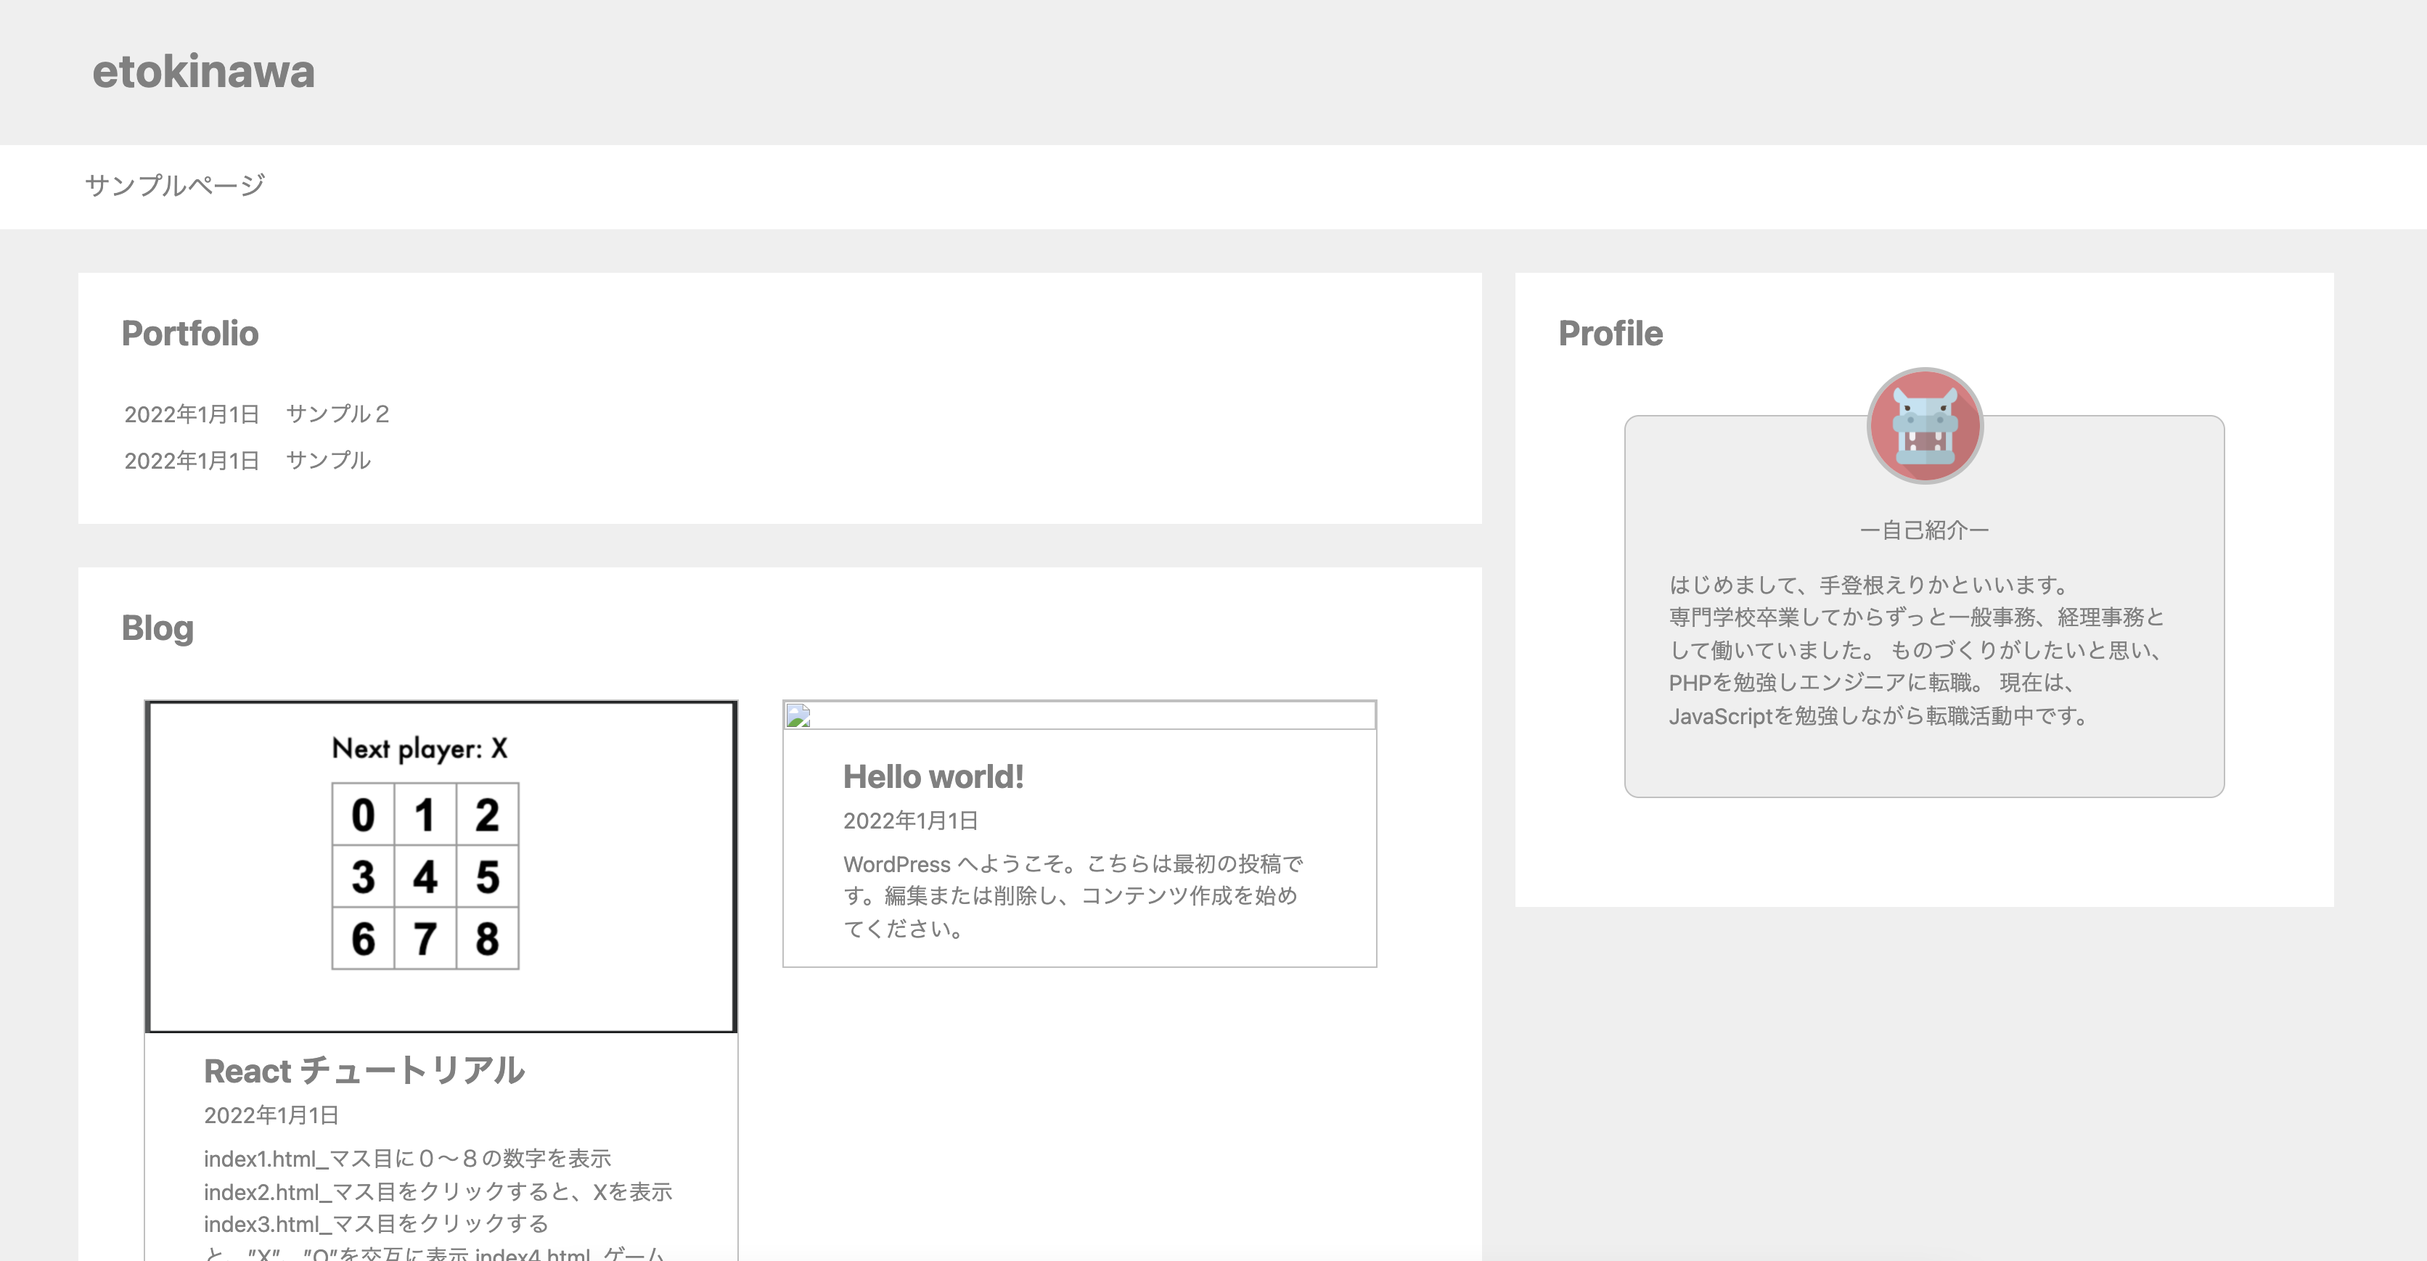
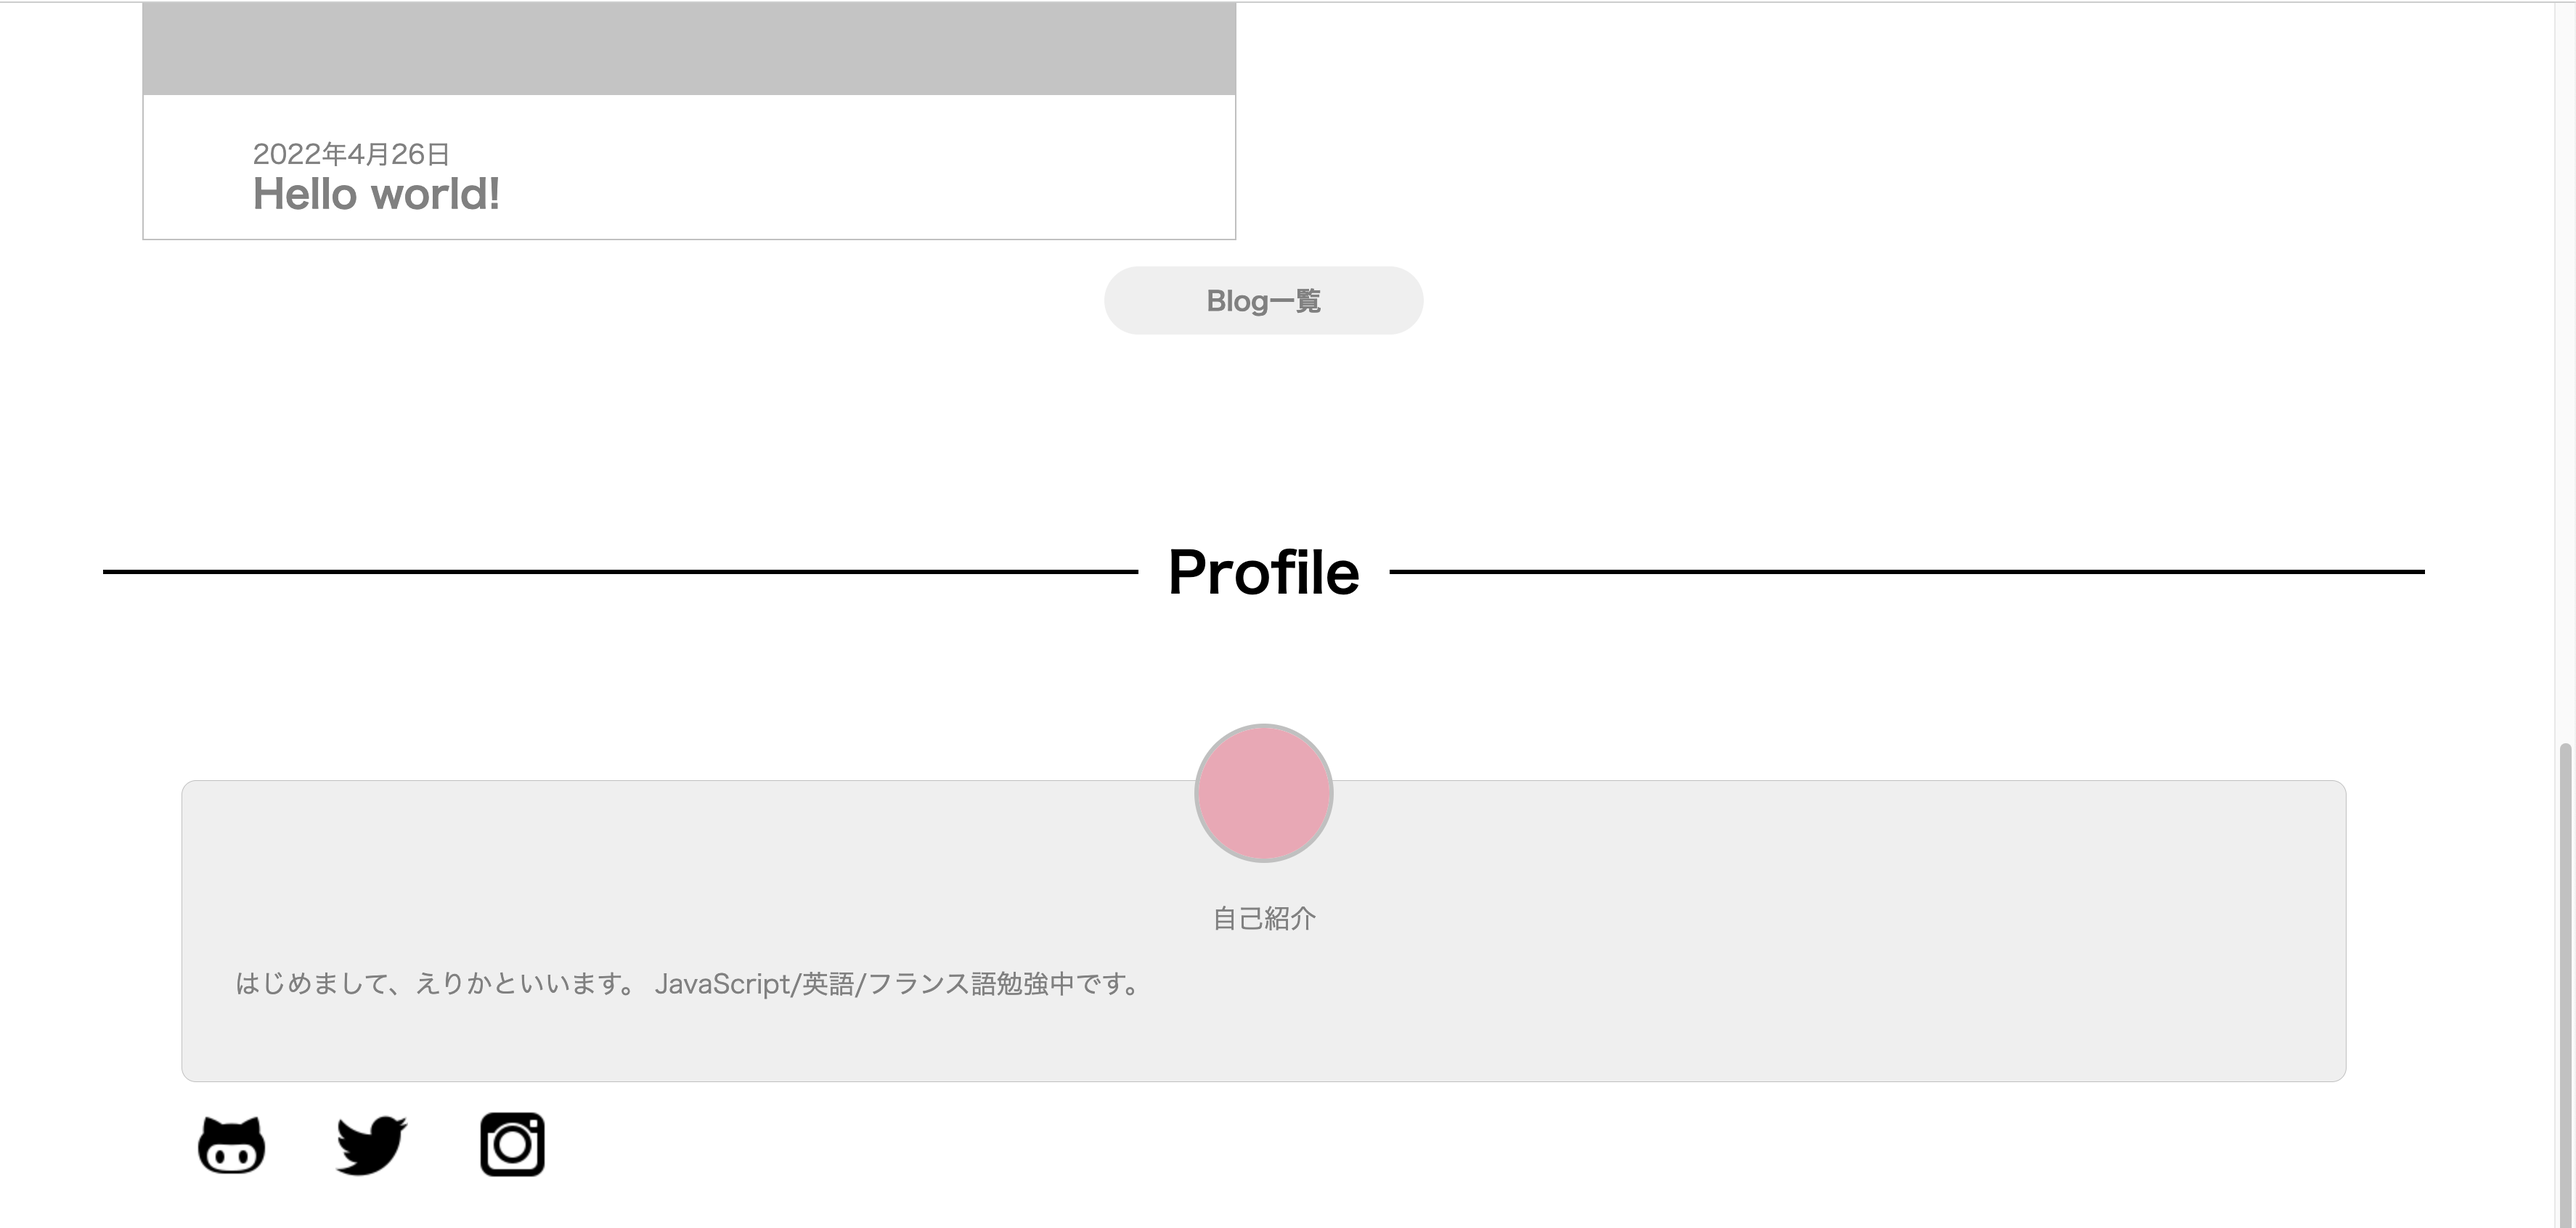
archive 位置修正

diff --git a/style.css b/style.css
@@ -7,7 +7,7 @@ Theme Name: Erikablog
 body {
     width: 100%;
     font-size: 18px;
-    color: gray;
+    color: black;
     margin: 0;
     font-family: sans-serif;
     line-height: 1.5em;
@@ -151,7 +151,6 @@ front-page
 }
 .card-image img{
     width: 100%;
-    height: 50%;
     display: block;
     text-align: center;
 }
@@ -238,13 +237,21 @@ single
 .post-thumbnail-image {
     text-align: center;
     padding-bottom: 1em;
+    height: 500px;
+    background-repeat: no-repeat;
+    background-position: center;
+    background-size: cover;
 }
 .post-contents{
     margin: 0 auto;
     width: 60%;
 }
-.single img {
-    width: 100%;
+.post-title {
+    text-align: center;
+    padding: 1.5em;
+}
+.post-text {
+    padding: 2em;
 }
 .single .post-date-category {
     font-size: 16px;
@@ -275,7 +282,7 @@ footer {
     
     /* header */
     .header-title-area {
-        padding-left: 2em;
+        padding: 1em 0 1em 2em;
     }
     .logo {
         padding-left: 0; 
@@ -304,13 +311,21 @@ footer {
     .text-title:after {
         margin: 0;
     }
+    .card-image img{
+        height: 50%;
+    }
     .card-list {
         width: 100%;
 		margin-left: 0.45em;
     }
-    .card-title {
-        margin: 0;
+	.card-title {
+        padding: 2em 0;
     }
+    .blog .card-title {
+        padding-left: 0em;
+        width: 100%;
+    }
+
     .data {
         font-size: 12px;
     }
@@ -329,12 +344,40 @@ footer {
         padding: 0;
     }
     .post-image {
-        display: flex;
+        width: 100%;
+        height: 50%;
+        display: block;
+        text-align: center;
     }
+	.archive .card {
+        display: block;
+        padding-bottom: 0;
+	}
 
     /* single */
     .post-contents {
-        width: 90%; 
+        width: 100%;
+    }
+    .post-thumbnail-image {
+        text-align: center;
+        padding-bottom: 1em;
+        height: 200px;
+        background-repeat: no-repeat;
+        background-position: center;
+        background-size: cover;
+    }
+    .post-title {
+        text-align: center;
+        padding: 0;
+        line-height: 1.2em;
+    }
+    .post-text {
+        padding: 0 1em;
+    }
+
+    .archive .card-contents {
+        margin: 0 auto;
+        width: 95%;
     }
     .single {
         margin: 0 auto;
@@ -344,15 +387,19 @@ footer {
     .contents .profile {
         margin: 1em;
     }
-    
-    .post-thumbnail-image img {
-        width: 100%;
-        height: 100%;
+    .pagination {
+        padding: 2em;
     }
-
-
 
     .icon li {
         padding: 0 0.5em;
+    }
+
+    /* footer */
+    footer {
+        padding: 0.1em;
+    }
+    .copyright {
+        font-size: 14px;
     }
 }

diff --git a/archive.php b/archive.php
@@ -1,33 +1,35 @@
 <?php get_header(); ?>
 
-<section class="archive blog">
+<section class="archive portfolio">
     <div class="card-contents">
-        <h3 class="text-title">Blog</h3>
+        <h2 class="text-title">Blog</h2>
+        <p class="text-info"></p>
         <div class="card-list-area">
-            <?php if (have_posts()): ?>
-            <?php while (have_posts()): the_post(); ?>
-                <div class="card">
-                    <div class="post-image">
-                        <a href="<?php the_permalink(); ?>">
-                        <?php if (has_post_thumbnail()): ?>
-                            <img class="" src="<?php the_post_thumbnail(array(250, 250), array( 'class' => 'thumbimg')); ?>
-                        <?php else: ?>
-                            <img class="" src="<?php bloginfo('template_url'); ?>/images/nophoto.jpg">
-                        <?php endif; ?>
-                        </a>
-                    </div>
-                    <div class="card-title">
-                        <a href="<?php the_permalink(); ?>">
-                            <h2><?php the_title(); ?></h2>
-                            <p><?php echo get_the_date(); ?></p>
-                            <p><?php the_excerpt(); ?></p>
-                        </a>
-                    </div>
+        <?php if( have_posts()): ?>
+        <?php while ( have_posts()): the_post(); ?>
+            <div class="card">
+                <div class="post-image card-image ">
+                    <a href="<?php the_permalink(); ?>">
+                    <?php if (has_post_thumbnail()): ?>
+                        <img class="" src="<?php the_post_thumbnail(array(250, 250), array( 'class' => 'thumbimg')); ?>
+                    <?php else: ?>
+                        <img class="" src="<?php bloginfo('template_url'); ?>/images/nophoto.jpg">
+                    <?php endif; ?>
+                    </a>
                 </div>
-            <?php endwhile; ?>
-            <?php endif; ?>
+                <div class="card-title">
+                    <a href="<?php the_permalink(); ?>">
+                        <h2><?php the_title(); ?></h2>
+                        <p><?php echo get_the_date(); ?></p>
+                        <p><?php the_excerpt(); ?></p>
+                    </a>
+                </div>
+            </div>
+        <?php endwhile; ?>
+        <?php endif; ?>
         </div>
     </div>
 </section>
+
 
 <?php get_footer(); ?>

diff --git a/single.php b/single.php
@@ -2,22 +2,27 @@
     
     <section class="single blog">
     <?php if(have_posts()): while(have_posts()):the_post(); ?>
-        <div class="post-thumbnail-image">
+        <div class="post-contents">
         <?php if (has_post_thumbnail()): ?>
-            <img src="<?php the_post_thumbnail(array(1000,600, true), array( 'class' => 'thumbimg')); ?>
+            <div class="post-thumbnail-image" 
+                style="background-image: url(
+                    <?php echo wp_get_attachment_url( get_post_thumbnail_id() );?>)">
+            </div>
         <?php else: ?>
             <img src="<?php bloginfo('template_url'); ?>/images/nophoto.jpg">
         <?php endif; ?>
-        </div>
-        <div class="post-contents">
             <h1 class="post-title"><?php the_title(); ?></h1>
-            <p class="post-date-category" datetime="<?php the_time('Y-m-d'); ?>"><?php the_time('Y.m.d'); ?>
-            【<?php the_category(', '); ?>】</p>
-            <p><?php the_content('Read more'); ?></p>
-            <?php endwhile; ?>
-            <?php endif; ?>
-            <?php previous_post_link('%link', '古い記事へ'); ?>
-            <?php next_post_link('%link', '新しい記事へ'); ?>
+            <div class="post-text">
+                <p class="post-date-category" datetime="<?php the_time('Y-m-d'); ?>"><?php the_time('Y.m.d'); ?>
+                【<?php the_category(', '); ?>】</p>
+                <p><?php the_content('Read more'); ?></p>
+                <?php endwhile; ?>
+                <?php endif; ?>
+            </div>
+            <div class="pagination">
+                <?php previous_post_link('%link', '古い記事へ'); ?>
+                <?php next_post_link('%link', '新しい記事へ'); ?>
+            </div>
         </div>
     </section>
     

diff --git a/functions.php b/functions.php
@@ -1,4 +1,12 @@
 <?php
+ /* ---------------------------------------
+テーマタグ設定
+--------------------------------------- */
+function init_func() {
+    add_theme_support('title-tag');
+}
+add_action('init', 'init_func');
+
 /* ---------------------------------------
 管理バー表示オフ設定
 --------------------------------------- */
@@ -94,4 +102,6 @@ function column_posts($query) {
     }
 }
 add_action('pre_get_posts','column_posts');
+
+
 

diff --git a/footer.php b/footer.php
@@ -1,7 +1,8 @@
         <footer>
             <p class="copyright">
-                Copyright
-                <?= date('Y'); ?><?php bloginfo('name'); ?>
+                ©
+                <?= date('Y'); ?>
+                <?php bloginfo('name'); ?>
                 All Rights Reserved
             </p>
         </footer>

diff --git a/archive-portfolio.php b/archive-portfolio.php
@@ -37,7 +37,6 @@
         <?php endif; ?>
         </div>
     </div>
-
 </section>
 
-
+<?php get_footer(); ?>
